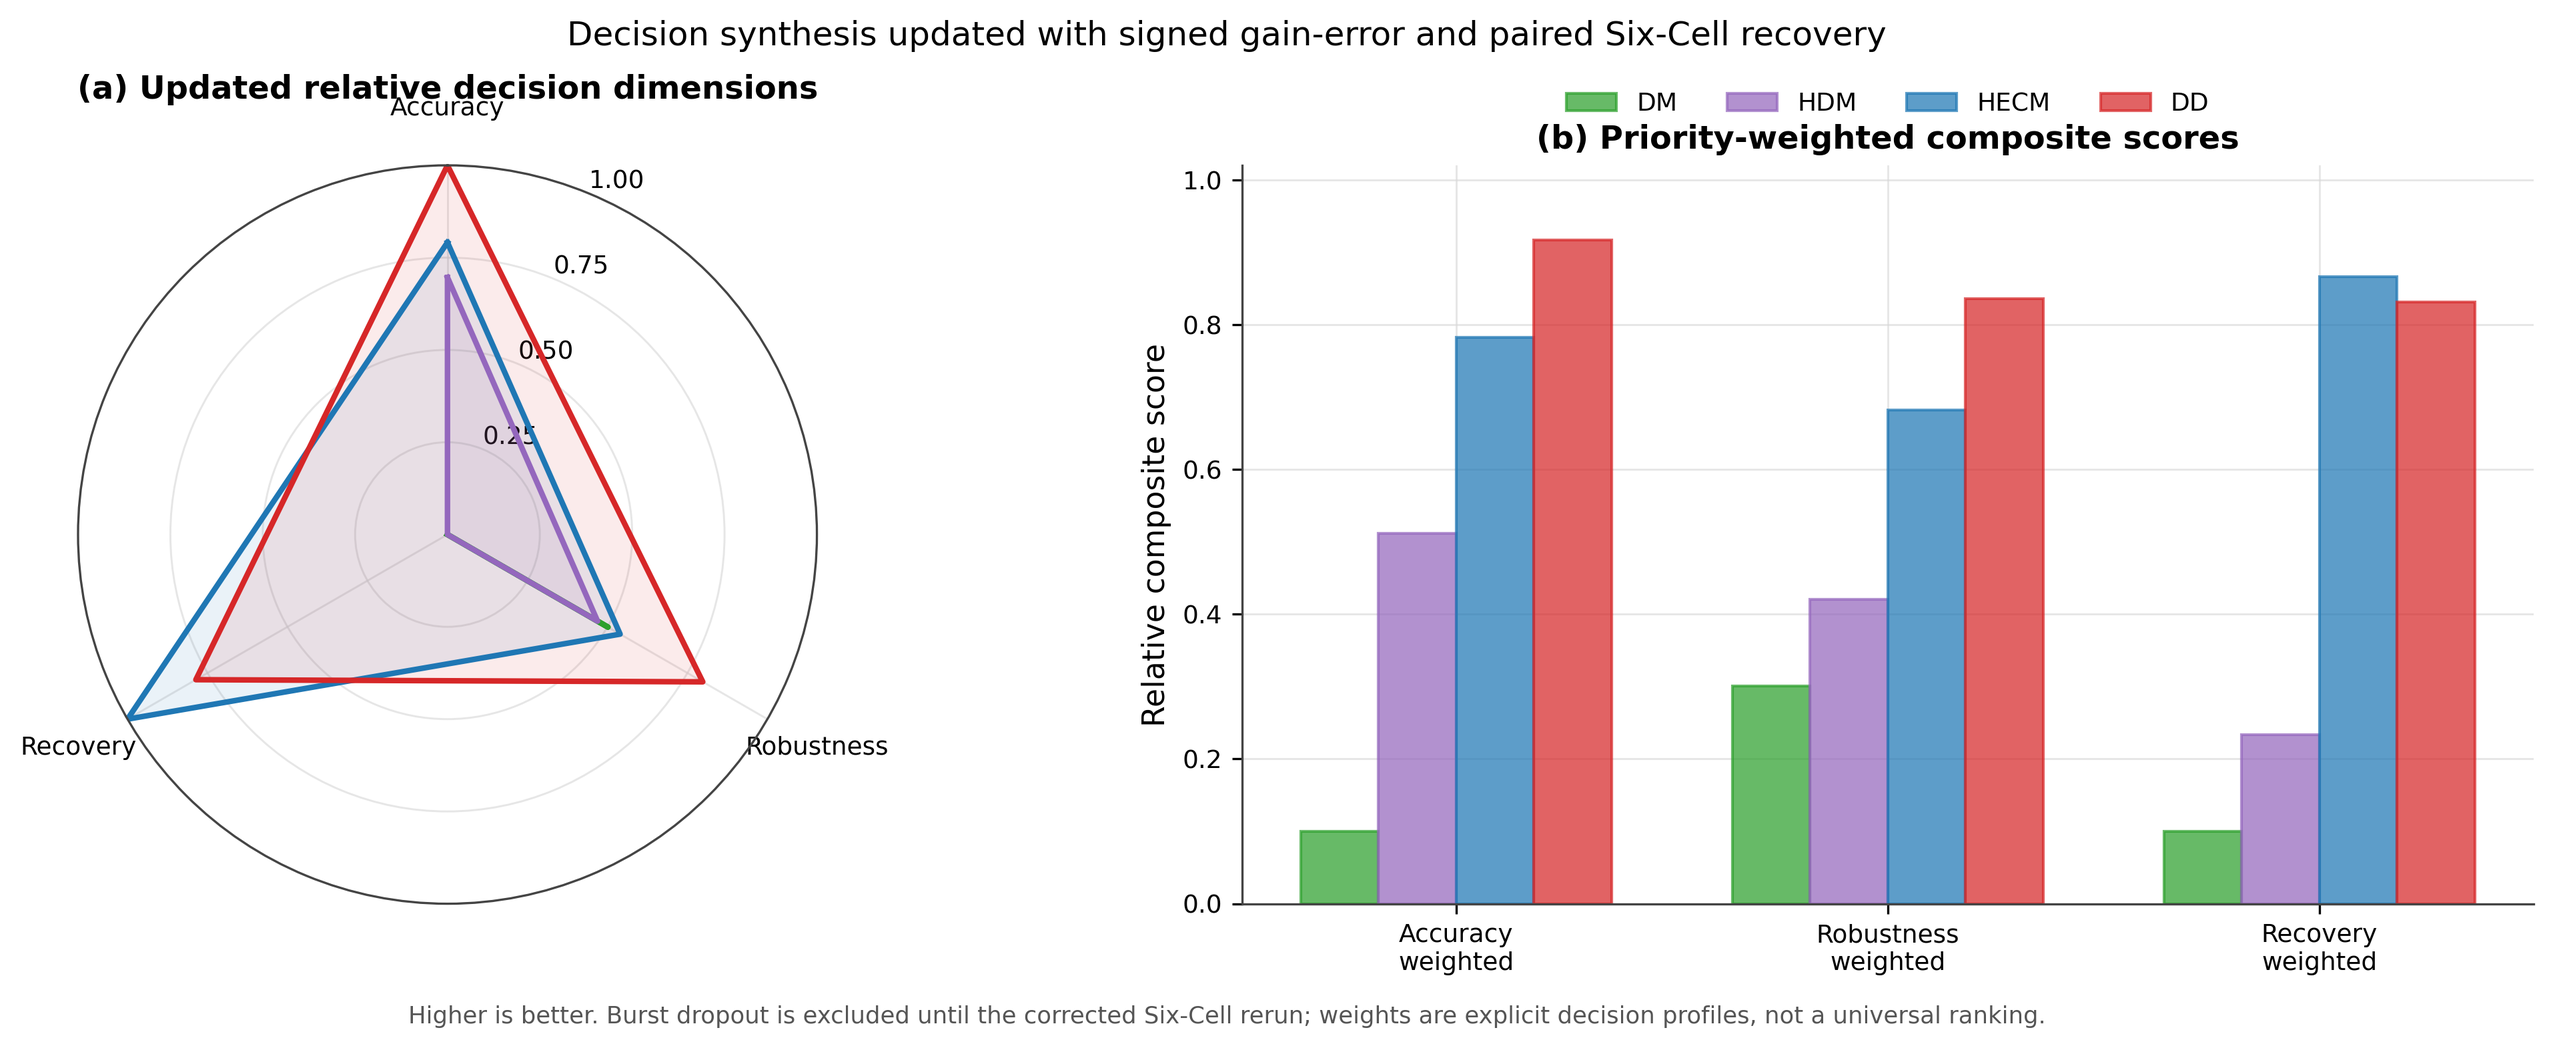
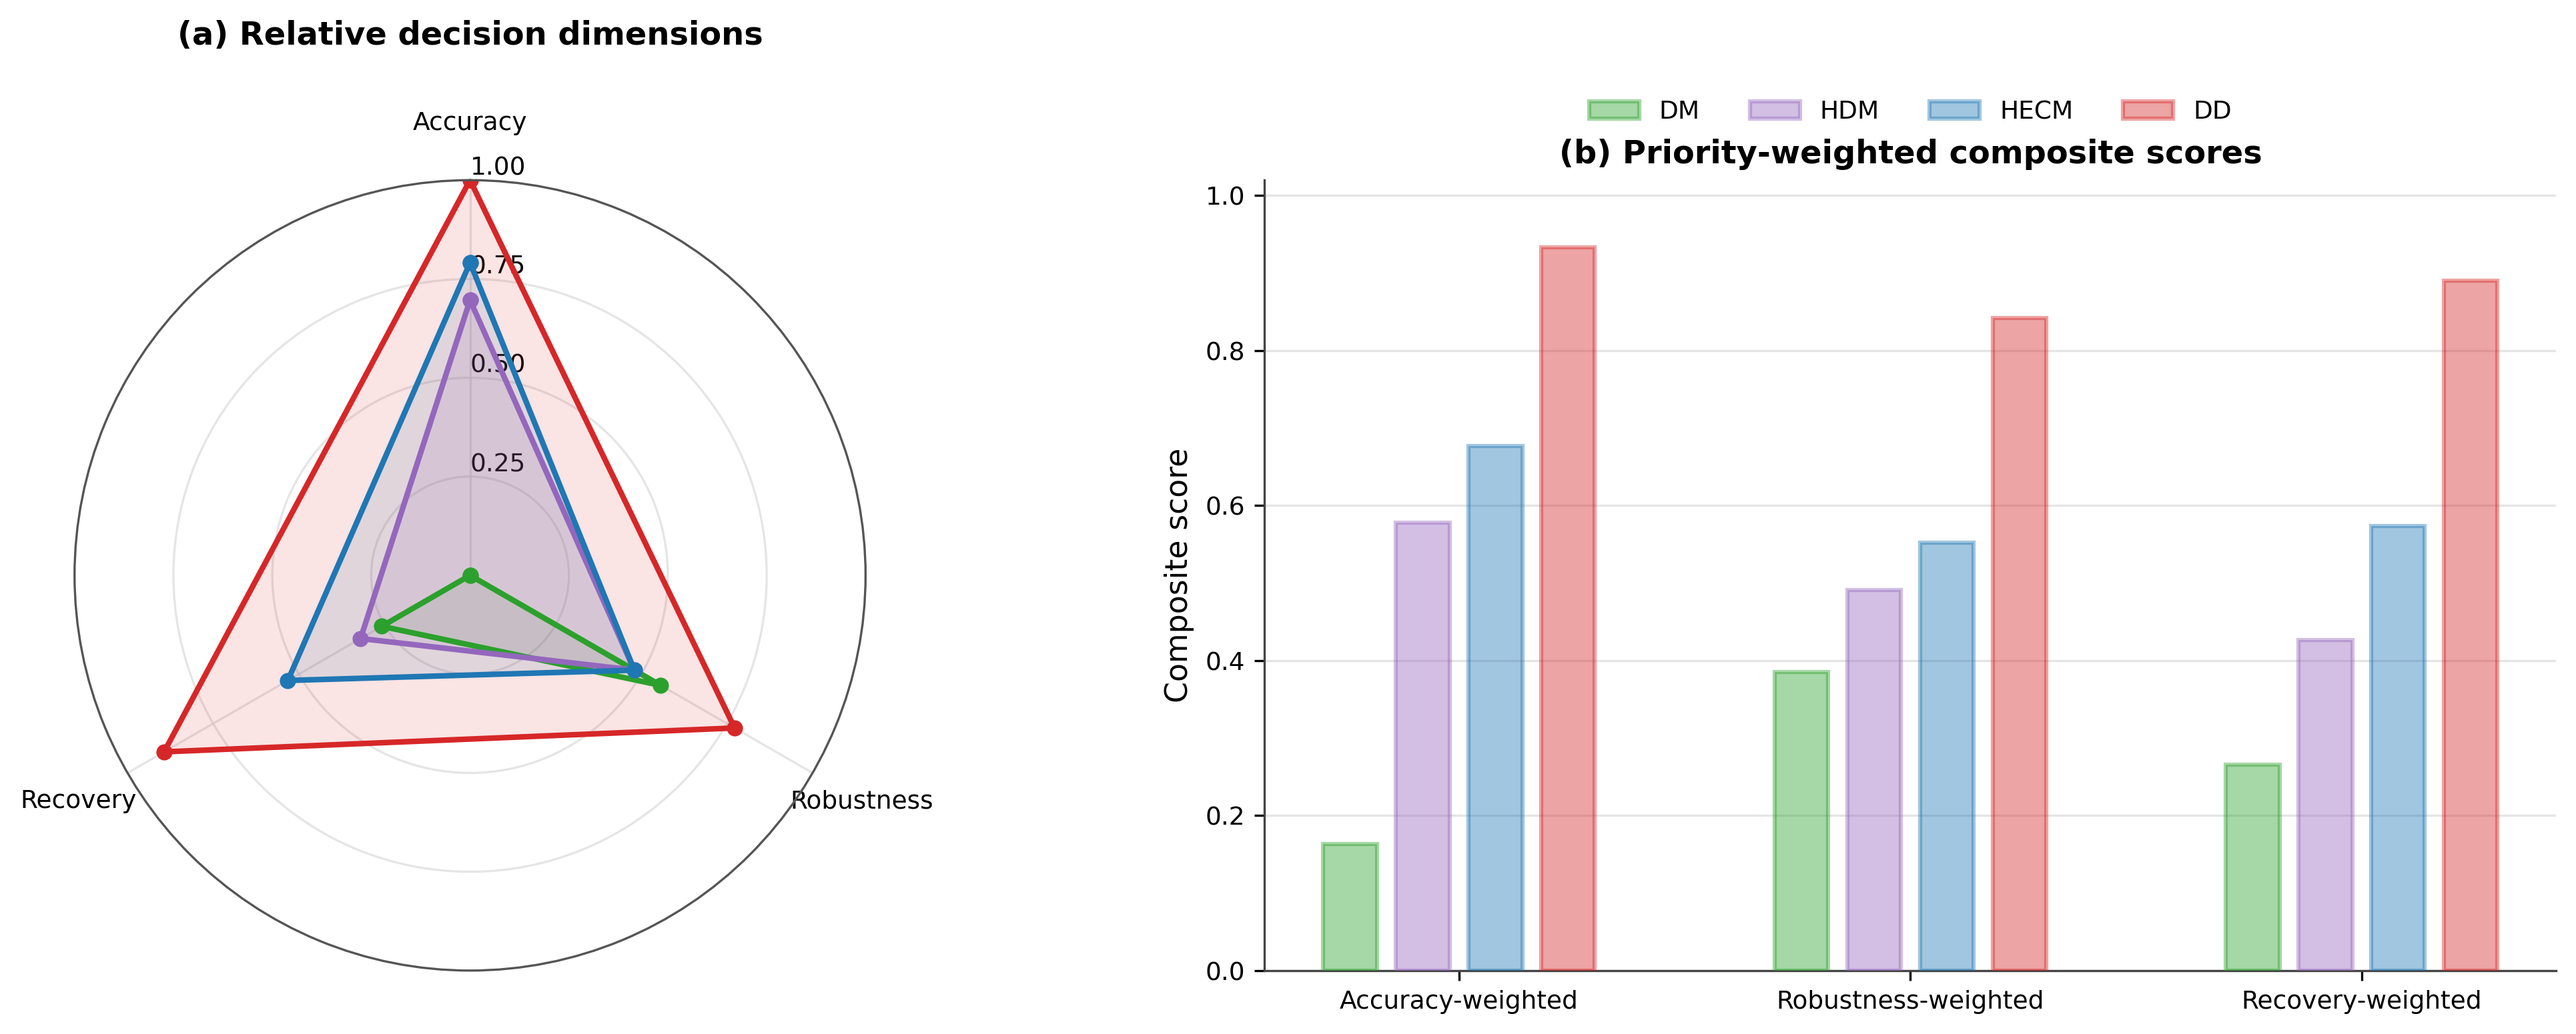
Update six-cell decision synthesis

diff --git a/LATEX/JES/paper_robustness_benchmark/figures/build_revised_all_cells_figures.py b/LATEX/JES/paper_robustness_benchmark/figures/build_revised_all_cells_figures.py
@@ -4,7 +4,7 @@
 The script deliberately keeps the detailed dissertation figures untouched.  It
 creates complementary views whose local and aggregate statements use the same
 metric and replaces the current-bias heatmap entries with the signed paired
-sweep. The available six-cell burst-dropout macro remains part of the heatmap.
+sweep. The available six-cell burst-dropout macro remains part of the analysis.
 """
 
 from __future__ import annotations
@@ -308,6 +308,7 @@ def decision_scores(aggregate: pd.DataFrame, revised_matrix: pd.DataFrame) -> tu
         "current_bias_3p0pct",
         "missing_samples_random",
         "irregular_sampling_0p9s",
+        "missing_gap_1h",
         "voltage_spikes",
         "adc_quantization",
     ]
@@ -319,8 +320,33 @@ def decision_scores(aggregate: pd.DataFrame, revised_matrix: pd.DataFrame) -> tu
     robustness = pd.concat(robust_parts, axis=1).mean(axis=1)
 
     recovery_cells = initial_recovery_cell_means()
-    recovery_raw = recovery_cells.groupby("model")["stable_recovery_time_h"].mean().reindex(MODEL_ORDER)
-    recovery = lower_better(recovery_raw)
+    initial_recovery_raw = (
+        recovery_cells.groupby("model")["stable_recovery_time_h"]
+        .mean()
+        .reindex(MODEL_ORDER)
+    )
+    initial_recovery = lower_better(initial_recovery_raw)
+
+    burst_parts = []
+    burst_raw = None
+    for metric in [
+        "common_recovery_or_censor_time_h",
+        "common_recovery_censored_fraction",
+        "common_recovery_excess_auc_soc_h",
+    ]:
+        rows = metric_rows(aggregate, metric)
+        values = (
+            rows[rows["alias"] == "missing_gap_1h"]
+            .set_index("model")["mean"]
+            .reindex(MODEL_ORDER)
+        )
+        if metric == "common_recovery_or_censor_time_h":
+            burst_raw = values
+        burst_parts.append(lower_better(values))
+    if burst_raw is None or burst_raw.isna().any():
+        raise ValueError("Complete six-cell burst-dropout recovery data are required for Figure 13.")
+    burst_recovery = pd.concat(burst_parts, axis=1).mean(axis=1)
+    recovery = pd.concat([initial_recovery, burst_recovery], axis=1).mean(axis=1)
 
     scores = pd.DataFrame(
         {
@@ -328,7 +354,9 @@ def decision_scores(aggregate: pd.DataFrame, revised_matrix: pd.DataFrame) -> tu
             "Accuracy": accuracy.reindex(MODEL_ORDER).to_numpy(float),
             "Robustness": robustness.reindex(MODEL_ORDER).to_numpy(float),
             "Recovery": recovery.reindex(MODEL_ORDER).to_numpy(float),
-            "Stable recovery time [h]": recovery_raw.to_numpy(float),
+            "Initial stable recovery time [h]": initial_recovery_raw.to_numpy(float),
+            "Burst recovery/censor time [h]": burst_raw.to_numpy(float),
+            "Burst recovery score": burst_recovery.reindex(MODEL_ORDER).to_numpy(float),
         }
     )
     weights = {
@@ -344,7 +372,11 @@ def decision_scores(aggregate: pd.DataFrame, revised_matrix: pd.DataFrame) -> tu
     return scores, profiles
 
 
-def figure_13_decision(scores: pd.DataFrame, profiles: pd.DataFrame) -> None:
+def figure_13_decision(
+    scores: pd.DataFrame,
+    profiles: pd.DataFrame,
+    output_path: Path | None = None,
+) -> None:
     labels = ["Accuracy", "Robustness", "Recovery"]
     angles = np.linspace(0, 2 * np.pi, len(labels), endpoint=False)
     closed_angles = np.r_[angles, angles[0]]
@@ -362,36 +394,50 @@ def figure_13_decision(scores: pd.DataFrame, profiles: pd.DataFrame) -> None:
     for row in scores.itertuples(index=False):
         values = np.array([row.Accuracy, row.Robustness, row.Recovery], dtype=float)
         values = np.r_[values, values[0]]
-        radar.plot(closed_angles, values, color=MODEL_COLORS[row.Model], lw=2.0, label=row.Model)
-        radar.fill(closed_angles, values, color=MODEL_COLORS[row.Model], alpha=0.09)
-    radar.set_title("(a) Updated relative decision dimensions", pad=24)
+        radar.plot(
+            closed_angles, values, color=MODEL_COLORS[row.Model], lw=2.0,
+            marker="o", markersize=5.0, markerfacecolor=MODEL_COLORS[row.Model],
+            markeredgecolor=MODEL_COLORS[row.Model], markeredgewidth=0.8, label=row.Model,
+        )
+        radar.fill(closed_angles, values, color=MODEL_COLORS[row.Model], alpha=0.12)
+    radar.set_rlabel_position(0)
+    radar.grid(color="#d8d8d8", linewidth=0.8)
+    radar.spines["polar"].set_color("#555555")
+    radar.set_title("(a) Relative decision dimensions", pad=24)
 
     profile_names = [c for c in profiles.columns if c != "Model"]
-    x = np.arange(len(profile_names))
-    width = 0.18
-    offsets = np.linspace(-1.5 * width, 1.5 * width, len(MODEL_ORDER))
+    x = np.arange(len(profile_names), dtype=float) * 1.18
+    width = 0.14
+    offsets = np.linspace(-0.285, 0.285, len(MODEL_ORDER))
     for index, row in profiles.iterrows():
         model = row["Model"]
         bars.bar(x + offsets[index], row[profile_names].to_numpy(float), width=width,
-                 color=MODEL_COLORS[model], alpha=0.72, edgecolor=MODEL_COLORS[model], label=model)
-    bars.set_xticks(x, [name.replace("-weighted", "\nweighted") for name in profile_names])
+                 color=MODEL_COLORS[model], alpha=0.42, edgecolor=MODEL_COLORS[model],
+                 linewidth=1.5, label=model, zorder=3)
+    bars.set_xticks(x, profile_names)
     bars.set_ylim(0.0, 1.02)
-    bars.set_ylabel("Relative composite score")
+    bars.set_yticks(np.linspace(0.0, 1.0, 6))
+    bars.set_ylabel("Composite score")
     bars.set_title("(b) Priority-weighted composite scores")
+    bars.grid(axis="y", color="#d8d8d8", linewidth=0.8, zorder=0)
+    bars.grid(axis="x", visible=False)
     bars.spines[["top", "right"]].set_visible(False)
     bars.legend(ncol=4, frameon=False, loc="upper center", bbox_to_anchor=(0.5, 1.13))
-    fig.suptitle("Decision synthesis updated with signed gain-error and paired Six-Cell recovery", fontsize=12)
-    fig.text(0.5, 0.015,
-             "Higher is better. Burst dropout is shown in the cross-scenario heatmap but is not weighted in this composite score; weights are explicit decision profiles, not a universal ranking.",
-             ha="center", fontsize=8.5, color="#555555")
-    fig.subplots_adjust(left=0.05, right=0.98, bottom=0.13, top=0.84)
-    save(fig, "Figure_13_Decision_Synthesis_REVISED")
+    fig.subplots_adjust(left=0.05, right=0.98, bottom=0.10, top=0.86)
+    if output_path is None:
+        save(fig, "Figure_13_Decision_Synthesis_REVISED")
+    else:
+        output_path.parent.mkdir(parents=True, exist_ok=True)
+        fig.savefig(output_path, dpi=300, bbox_inches="tight", facecolor="white")
+        plt.close(fig)
 
 
 def main() -> None:
     parser = argparse.ArgumentParser(description="Build revised six-cell JES figures.")
     parser.add_argument("--figure-12-only", action="store_true")
     parser.add_argument("--figure-12-output", type=Path, default=None)
+    parser.add_argument("--figure-13-only", action="store_true")
+    parser.add_argument("--figure-13-output", type=Path, default=None)
     args = parser.parse_args()
 
     setup_style()
@@ -400,6 +446,12 @@ def main() -> None:
     matrix = revised_delta_matrix(aggregate, signed_bias)
     if args.figure_12_only:
         figure_12_heatmap(matrix, args.figure_12_output)
+        return
+    if args.figure_13_only:
+        scores, profiles = decision_scores(aggregate, matrix)
+        figure_13_decision(scores, profiles, args.figure_13_output)
+        print(scores.round(4).to_string(index=False))
+        print(profiles.round(4).to_string(index=False))
         return
 
     run_metrics = pd.read_csv(RESULTS / "jes2_run_metrics.csv")

diff --git a/LATEX/JES/paper_robustness_benchmark/figures/Results/All Cells/README.md b/LATEX/JES/paper_robustness_benchmark/figures/Results/All Cells/README.md
@@ -18,7 +18,7 @@ Farbschema ist durchgängig DM = grün, HDM = lila, HECM = blau und DD = rot.
 | 10 | Original erhalten, aber als `LEGACY_REVIEW` markiert | Verwendet das frühere Dropout-Protokoll; nicht als finales Ergebnis zitieren. Die gültige Übergangsdarstellung ist Fig. 09. |
 | 11 | Dissertation-Abbildung erhalten; 11b zeigt dieselbe >5%-Transientenmetrik als Six-Cell-Makro, Zellpunkte und HECM/DD-Aufschlüsselung nach SOH-Zustand | Der frühere DD-selektierte C29-Ausschnitt wurde entfernt, weil er die globale HECM-Anfälligkeit nicht erklären konnte. |
 | 12 | Dissertation-Abbildung erhalten; 12b verwendet die gepaarte ±Gain-Fehler-Auswertung und die blau-weiß-rote Diss-Heatmap-Palette | Burst dropout bleibt mit dem vorhandenen Six-Cell-Delta-MAE aus den vollständigen Zellkampagnen enthalten. Figure 09 ergänzt dies um den korrigierten C29-Verlauf und die Six-Cell-Recovery. Die frühere rot-graue Variante bleibt als `Figure_12b_Cross_Scenario_Heatmap_Six_Cell_Muted_Red_Gray.png` erhalten. |
-| 13 | Dissertation-Abbildung erhalten; Radar und Prioritätsprofile in 13b neu berechnet | Nutzt aktuelle Six-Cell-Baseline, gepaarte ±Gain-Fehler, korrigierte Initial-State-Kampagne; Dropout bis zum Rerun aus dem Score ausgeschlossen. |
+| 13 | Dissertation-Abbildung erhalten; Radar und Prioritätsprofile in 13b neu berechnet | Nutzt aktuelle Six-Cell-Baseline, gepaarte ±Gain-Fehler und korrigierte Initial-State-Kampagne. Burst-Dropout fließt in Robustheit und Recovery ein; Initial-SOC- und Burst-Recovery werden als zwei gleich gewichtete Tests zusammengeführt. |
 | 14 | Dissertation-Abbildung erhalten; aktuelle Six-Cell-Fassung als 14b ergänzt | Six-Cell-Zahlen sind die bevorzugte quantitative Ebene. |
 | 16, 17, 27–29 | Als besonders hilfreiche Ergänzungen aufgenommen | Dokumentieren Zellabdeckung, statistische Unsicherheit, Testmatrix, Auswertungslogik und gefrorene Evaluationsfenster. |
 
@@ -34,3 +34,6 @@ Erzeugung: `python figures/build_all_cells_collection.py`
 
 Nur Figure 12b neu erzeugen:
 `python figures/build_revised_all_cells_figures.py --figure-12-only --figure-12-output "figures/Results/All Cells/Figure_12b_Cross_Scenario_Heatmap_Six_Cell.png"`
+
+Nur Figure 13b neu erzeugen:
+`python figures/build_revised_all_cells_figures.py --figure-13-only --figure-13-output "figures/Results/All Cells/Figure_13b_Decision_Synthesis_Six_Cell.png"`
